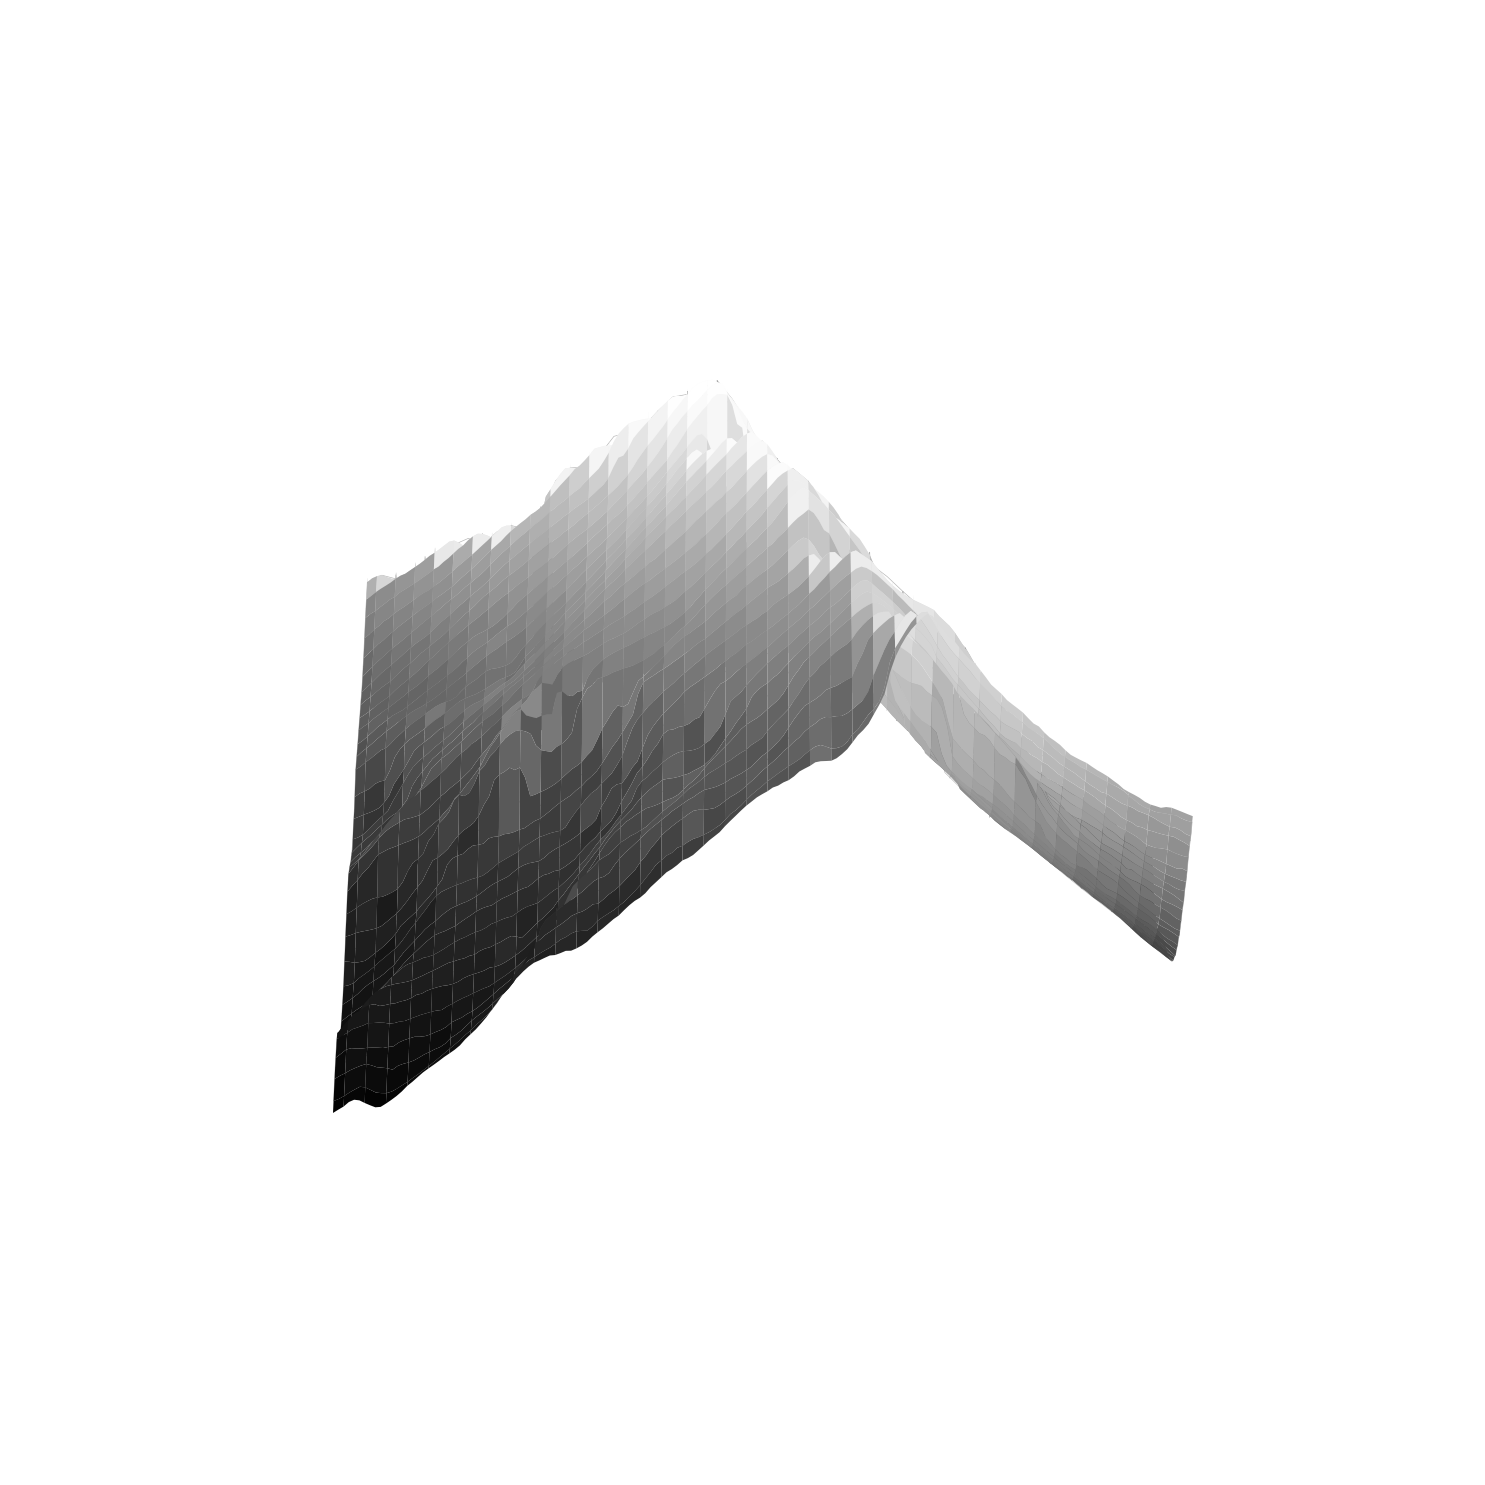
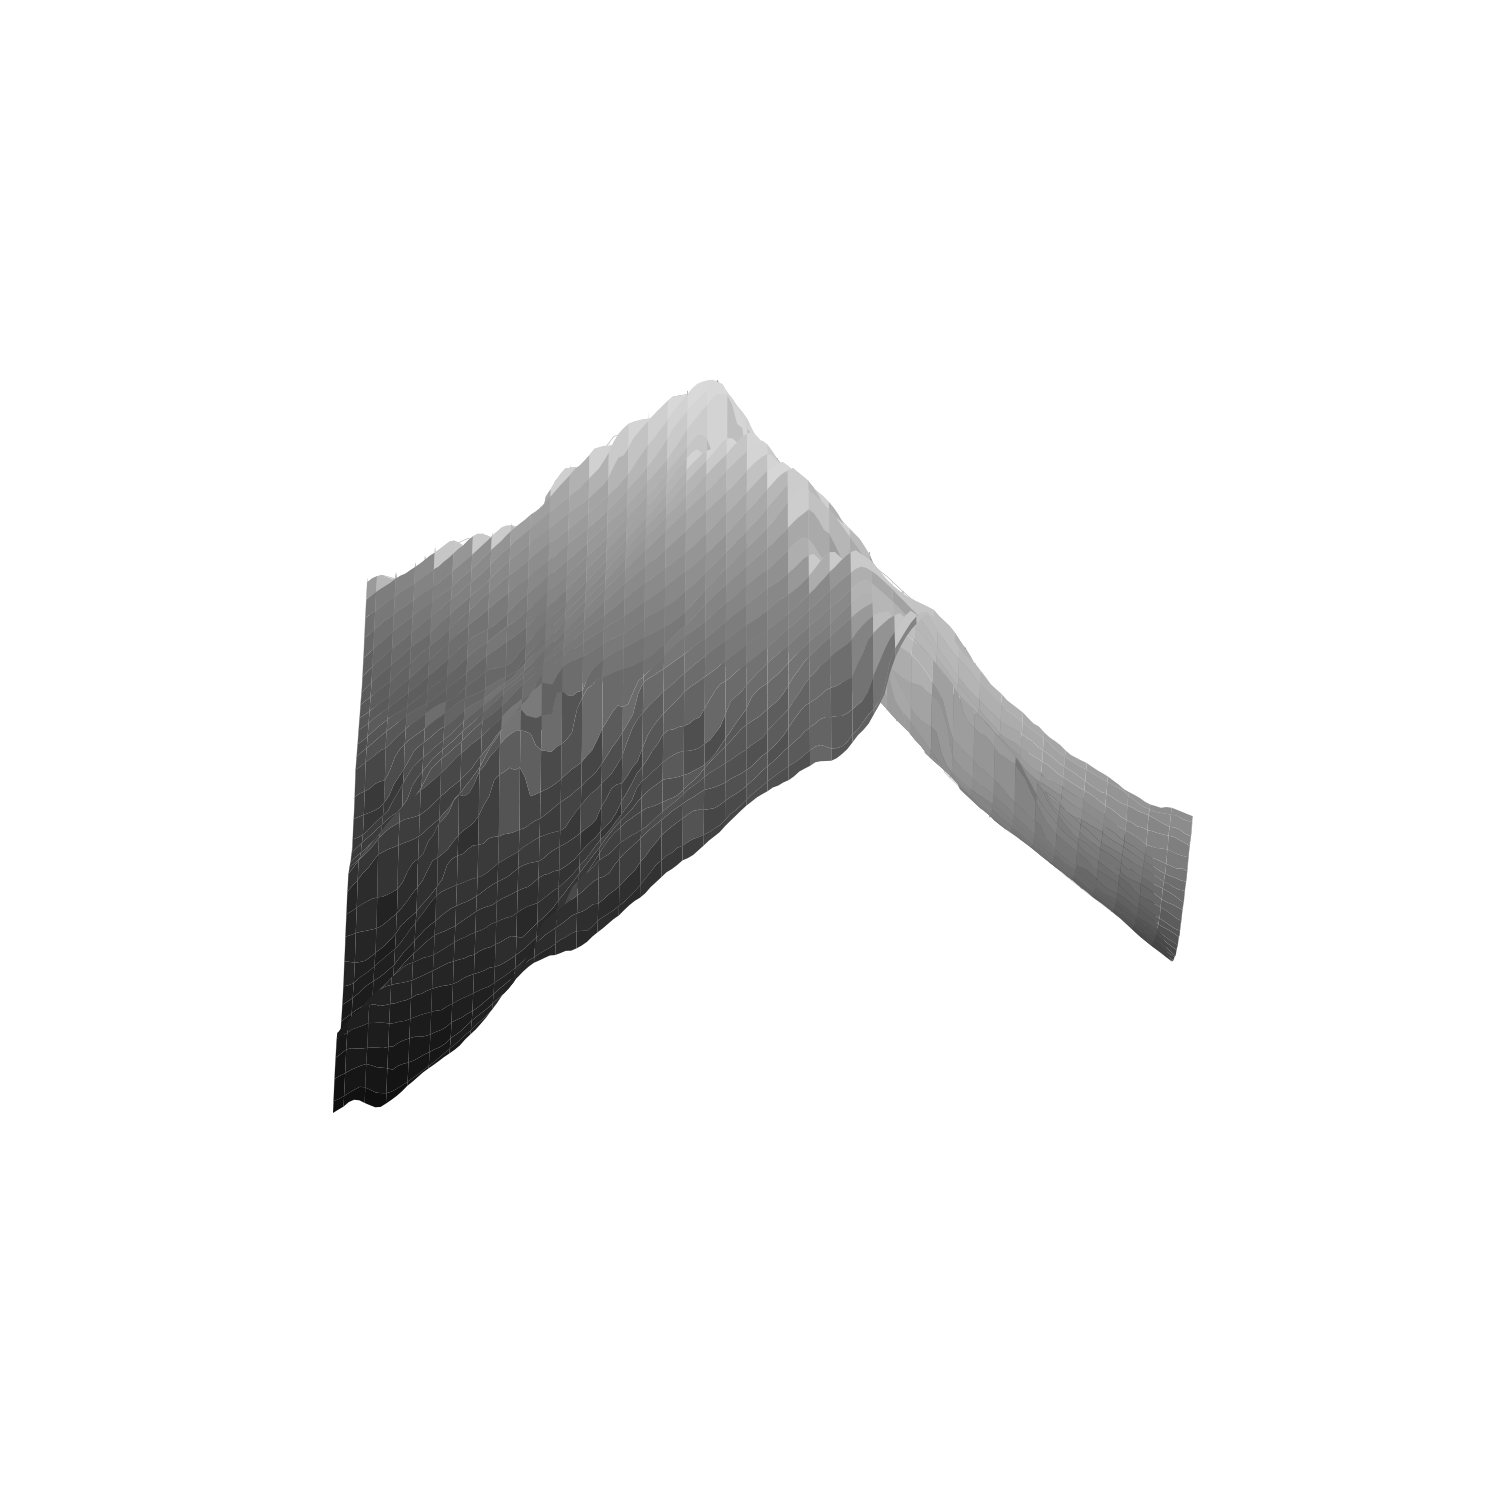
Cap hillshade brightness so peaks visible against white background

Changed region(s): [[0.3717, 0.2478, 0.7125, 0.5266], [0.3098, 0.3407, 0.3407, 0.3717]]

diff --git a/tmp/dem_viewer.py b/tmp/dem_viewer.py
@@ -245,9 +245,12 @@ def render_view(X: np.ndarray, Y: np.ndarray, Z: np.ndarray,
     shade = compute_hillshade(Zs, azimuth=315, altitude=35)
 
     # Create grayscale colormap from hillshade
+    # Cap brightness so peaks aren't pure white against background
     from matplotlib.colors import LightSource
     ls = LightSource(azdeg=315, altdeg=35)
     rgb = ls.shade(Zs, cmap=plt.cm.gray, vert_exag=1, blend_mode='soft')
+    # Darken: scale RGB values to max 0.85 so bright areas still visible
+    rgb[..., :3] = rgb[..., :3] * 0.8 + 0.05
 
     # Plot as wireframe mesh with hillshade surface underneath
     ax.plot_surface(Xs, Ys, Zs, facecolors=rgb, linewidth=0,
